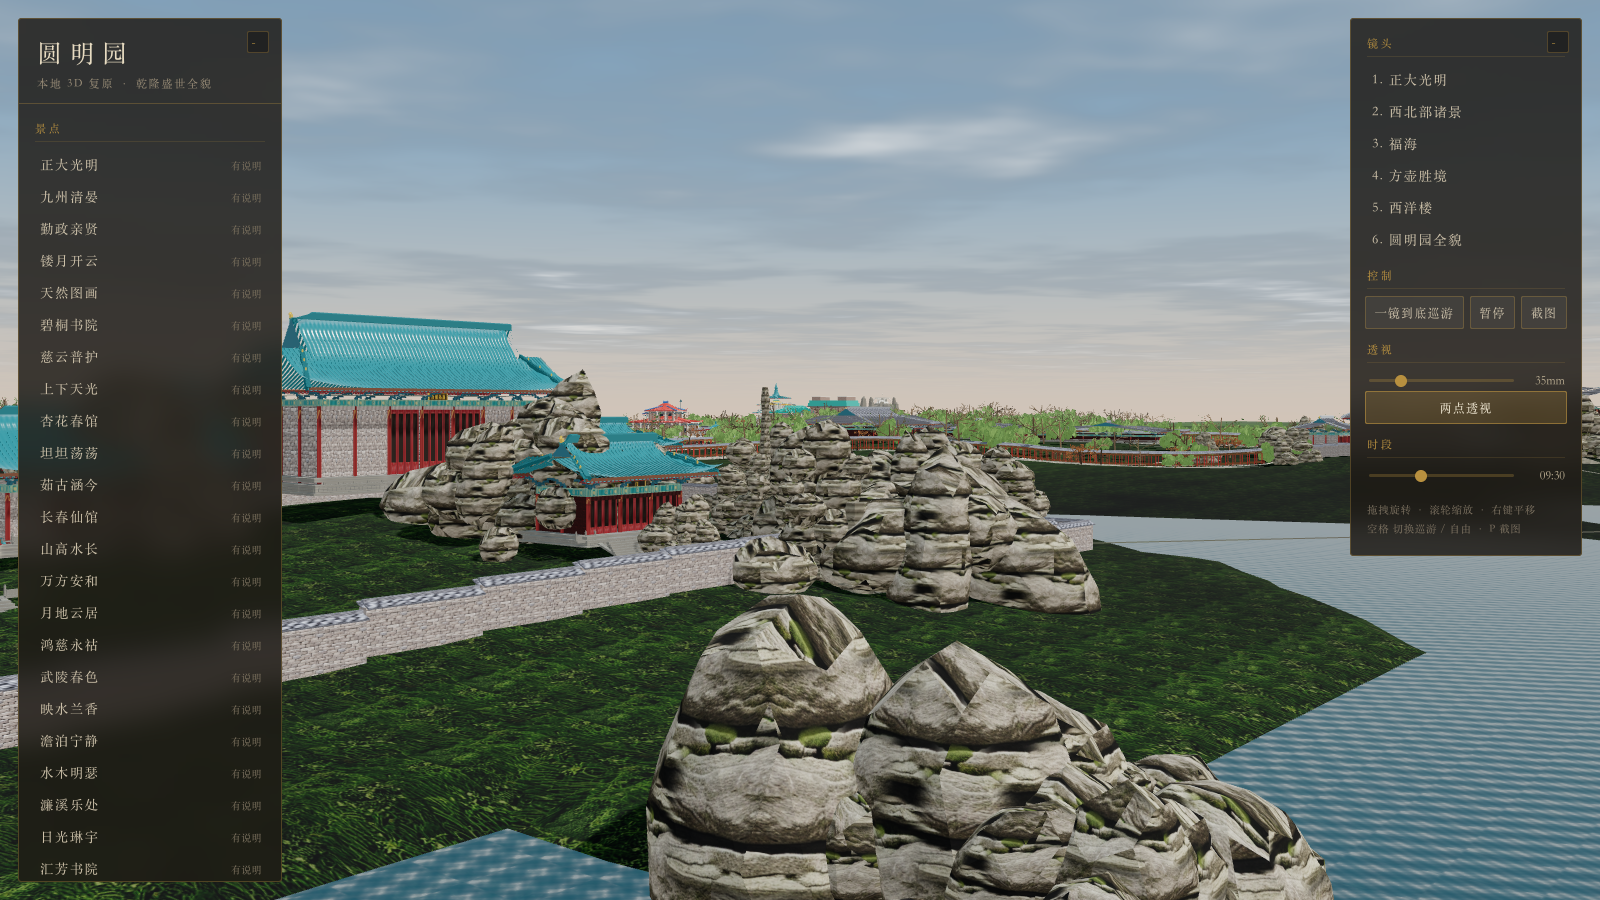
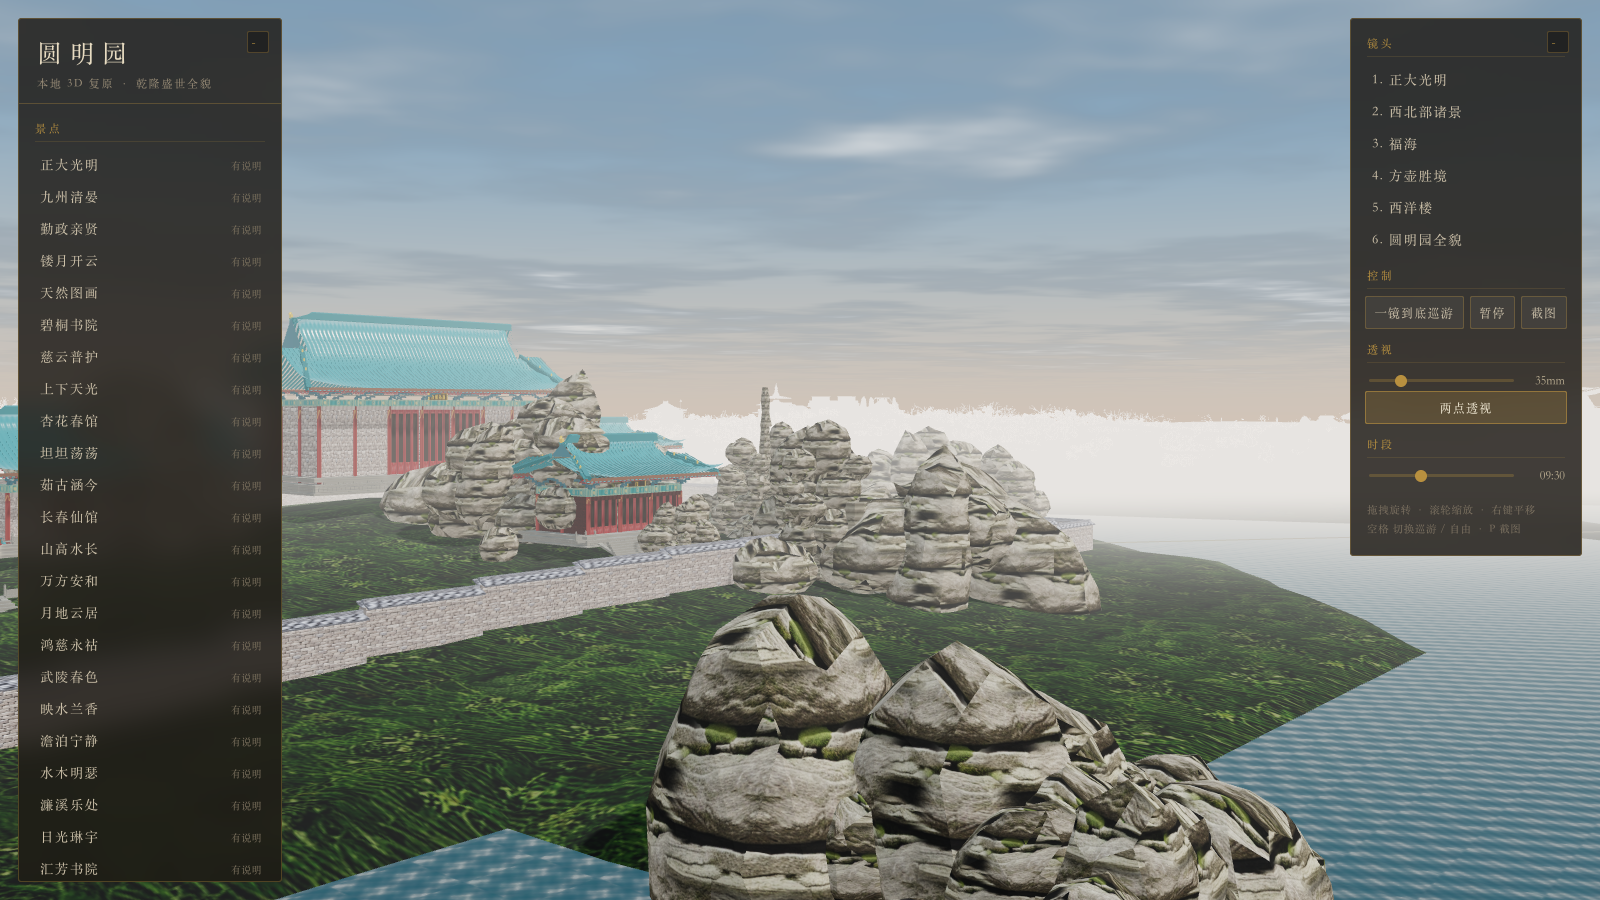
fix(大气): 雾随视高自适应；地表斜纹的根因是草地贴图的方向性结构
## 大气透视不能一刀切
雾是贴着地面的空气层：站在地面看远处要有雾（远近要拉开），
高空俯瞰时雾必须推远——原来固定 near 260 / far 3400，
俯视相机在 2100m 高，整个 2.4km 园区被白雾吃掉，俯视图全白。
改成按相机离地高度缩放雾的远近（0~8 倍）。

## 地表斜纹
满屏规则斜向条纹不是地形问题（改用地形法线中心差分后依旧），
是 **AI 草地贴图自带方向性笔触**，19m 一张平铺到全园就成了一片灯芯绒。
把贴图放到 38m 一张后平铺周期被 mipmap 抹平，斜纹消失。

## 地形法线
法线改用中心差分（步长 6m，大于 DEM 的 10m 格距），
不再用 computeVertexNormals —— 后者会把 DEM 的量化台阶显成刻面。

Changed region(s): [[0.0, 0.3422, 1.0, 1.0], [0.0, 0.4356, 0.0312, 0.7467], [0.0, 0.84, 0.0312, 0.8711]]

diff --git a/src/scene/terrain.js b/src/scene/terrain.js
@@ -82,13 +82,29 @@ export function buildTerrain(sceneData, opts = {}) {
   geo.setAttribute('color', new THREE.BufferAttribute(colors, 3));
   // UV 按世界尺度铺开：程序化贴图 35m 一张，AI 照片贴图 19m 一张。
   // 14m 时平铺周期太短，站在地面上一眼就看见"一模一样的方块在重复"。
-  const tile = getTextureOverrides().grass ? 19 : 35;
+  const tile = getTextureOverrides().grass ? 38 : 35;
   const uv = geo.attributes.uv;
   for (let i = 0; i < uv.count; i++) {
     uv.setXY(i, uv.getX(i) * (spanX / tile), uv.getY(i) * (spanZ / tile));
   }
   uv.needsUpdate = true;
-  geo.computeVertexNormals();
+  // 法线用**中心差分**重算，不用 computeVertexNormals。
+  // DEM 是 10m 分辨率上采样的，三角形化后每个 DEM 格子的台阶会变成一片
+  // 规则的斜向刻面（俯视时满屏灯芯绒）。差分步长取 6m（大于 DEM 格距），
+  // 法线就只反映真实坡度、不反映量化台阶。
+  {
+    const nrm = geo.getAttribute('normal');
+    const d = 6;
+    for (let i = 0; i < pos.count; i++) {
+      const x = pos.getX(i);
+      const z = pos.getZ(i);
+      const hx = heightAt(x + d, z) - heightAt(x - d, z);
+      const hz = heightAt(x, z + d) - heightAt(x, z - d);
+      const len = Math.hypot(hx, 2 * d, hz) || 1;
+      nrm.setXYZ(i, -hx / len, (2 * d) / len, -hz / len);
+    }
+    nrm.needsUpdate = true;
+  }
 
   const mat = new THREE.MeshStandardMaterial({
     map: makeGroundTexture(),

diff --git a/src/main.js b/src/main.js
@@ -681,6 +681,14 @@ function animate() {
   // 云的缓慢漂移
   skyUniforms.uTime.value = t;
 
+  // 大气透视随视高自适应：
+  // 雾是**贴着地面**的空气层，站在地面看远处要有雾，
+  // 高空俯瞰时雾必须推远——否则整个园区被白雾吃掉，俯视图全白。
+  const camGround = heightAt(camera.position.x, camera.position.z);
+  const hFactor = THREE.MathUtils.clamp((camera.position.y - camGround) / 260, 0, 8);
+  scene.fog.near = 260 * hFactor;
+  scene.fog.far = 3400 * hFactor;
+
   // 阴影相机跟随视点
   const focus = controls.target;
   sun.target.position.copy(focus);
